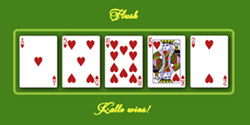
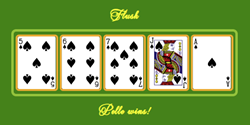
Added player hand indication

diff --git a/js/player.js b/js/player.js
@@ -103,7 +103,7 @@ export default class Player {
         const valueHTML = VALUE_HTML[card.value];
 
         const cardFrontElement = document.createElement('div');
-        cardFrontElement.className = "card-front-frame";
+        cardFrontElement.className = "card-front-frame box-shadow-thin";
         cardFrontElement.innerHTML = `
             <img type="img" src="./cards/${valueHTML}${card.suit}.svg" alt="Card Front" class="card-front-image">
             `
@@ -112,7 +112,7 @@ export default class Player {
 
     #createCardBackElement(frontUp) {
         const cardBackElement = document.createElement('div');
-        cardBackElement.className = "card-back-frame";
+        cardBackElement.className = "card-back-frame box-shadow-thin";
         cardBackElement.innerHTML = `
             <img type="img" src="./svg/card-back.svg" alt="Card Back" class="card-back-image">
             `
@@ -187,6 +187,28 @@ export default class Player {
 
     removeCards() {
         return this.cardContainers.map((cardContainerElement) => this.removeCard(cardContainerElement));
+    }
+
+    resetHand() {
+        this.cardContainers.forEach((cardContainer) => {
+            cardContainer.classList.remove("card-container-outline-red");
+            for(const child of cardContainer.children) {
+                child.classList.add("box-shadow-thin");
+            }
+        });
+    }
+
+    setHand(hand) {
+        for(const cardContainer of this.cardContainers)  {
+            const playerCard = JSON.parse(cardContainer.dataset.card);
+            if(hand.some((card) => playerCard.suit === card.suit  && playerCard.value === card.value)) {
+                cardContainer.classList.add("card-container-outline-red");
+                for(const child of cardContainer.children) {
+                    child.classList.remove("box-shadow-thin");
+                }
+            }
+                
+        }
     }
 
     resetWinner() {

diff --git a/js/game.js b/js/game.js
@@ -95,6 +95,7 @@ export default class Game {
                 this.winner.resetWinner();
                 this.winner = null;
             }
+            this.players.forEach((player) => player.resetHand());
             this.players.forEach((player) => player.removeCards());
             this.dealer.deal(5, ...this.players);
             this.#setGameState('draw');
@@ -105,6 +106,7 @@ export default class Game {
         if(this.gameState === 'draw')  {
             this.players.forEach((player) => this.dealer.replace(player.getCardContainerFrontDown(), player));
             const validate = new Validate(this.players);
+            this.players.forEach((player) => player.setHand(validate.getPlayerHand(player)));
             this.winner = validate.getWinner();
             this.winner.setWinner();
             this.dealer.newDeck();

diff --git a/js/validate.js b/js/validate.js
@@ -46,7 +46,7 @@ export class Validate {
             case 'One pair':
                 return Validate.#matchOnePair(cardsSortedByValue);
             default:
-                return cardsSortedByValue;
+                return [cardsSortedByValue[0]];
         }
     }
 
@@ -156,6 +156,11 @@ export class Validate {
             console.log('cards  : ', playerStats.cards);
             console.log('');
         })
+    }
+
+    getPlayerHand(player) {
+        const playerStats = this.playerStats.filter((playerStats) => playerStats.name === player.getName())[0];
+        return playerStats.hand.cards;
     }
 
     getWinner() {

diff --git a/css/index.css b/css/index.css
@@ -174,7 +174,7 @@ main {
     justify-content: space-around;
     align-items: center;
     flex-wrap: wrap;
-    gap: 1.2rem;
+    gap: 1.4rem;
     border: 5px solid rgb(128, 190, 35);
     border-radius: 10px;
     perspective: 60rem;
@@ -191,6 +191,10 @@ main {
     transition: transform 0.5s;
 }
 
+.card-container-outline-red {
+    outline: 4px solid orange;
+}
+
 .card-container-flip:hover {
     cursor: alias;
 }
@@ -205,6 +209,9 @@ main {
     height: 100%;
     backface-visibility: hidden;
     overflow: hidden;
+}
+
+.box-shadow-thin {
     box-shadow: 2px 2px 10px 0px #160404fd;
 }
 
